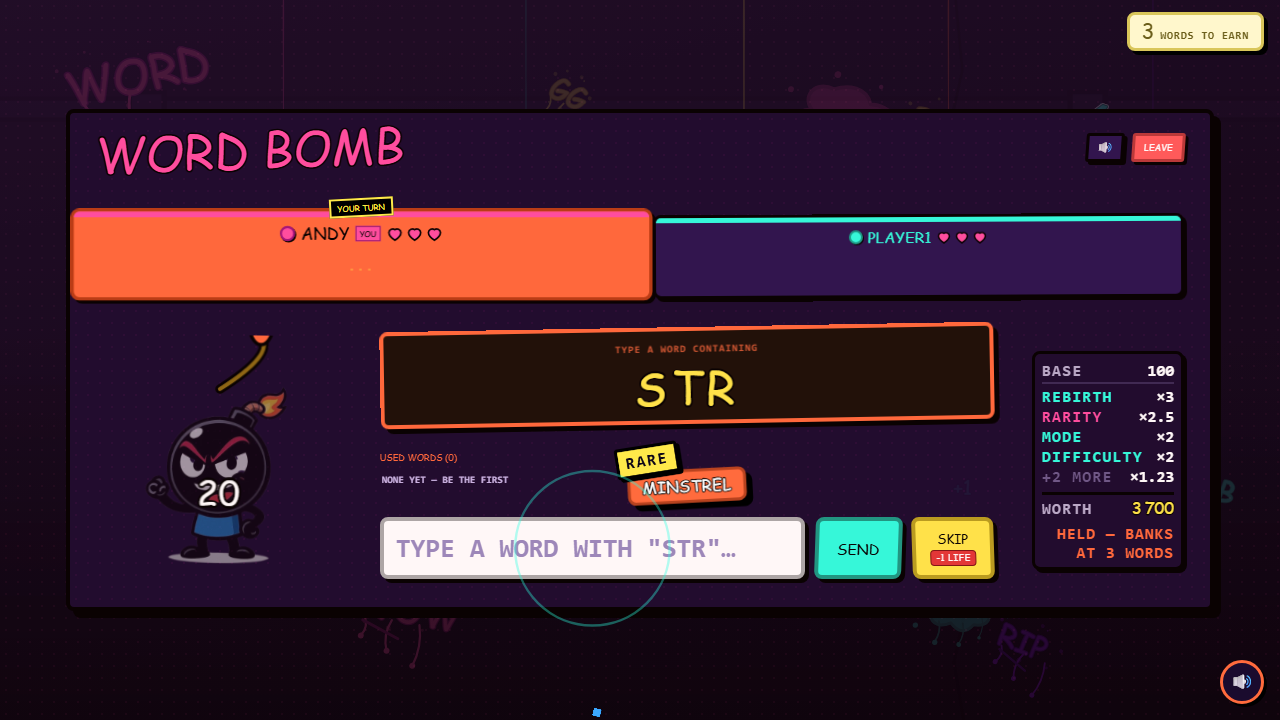
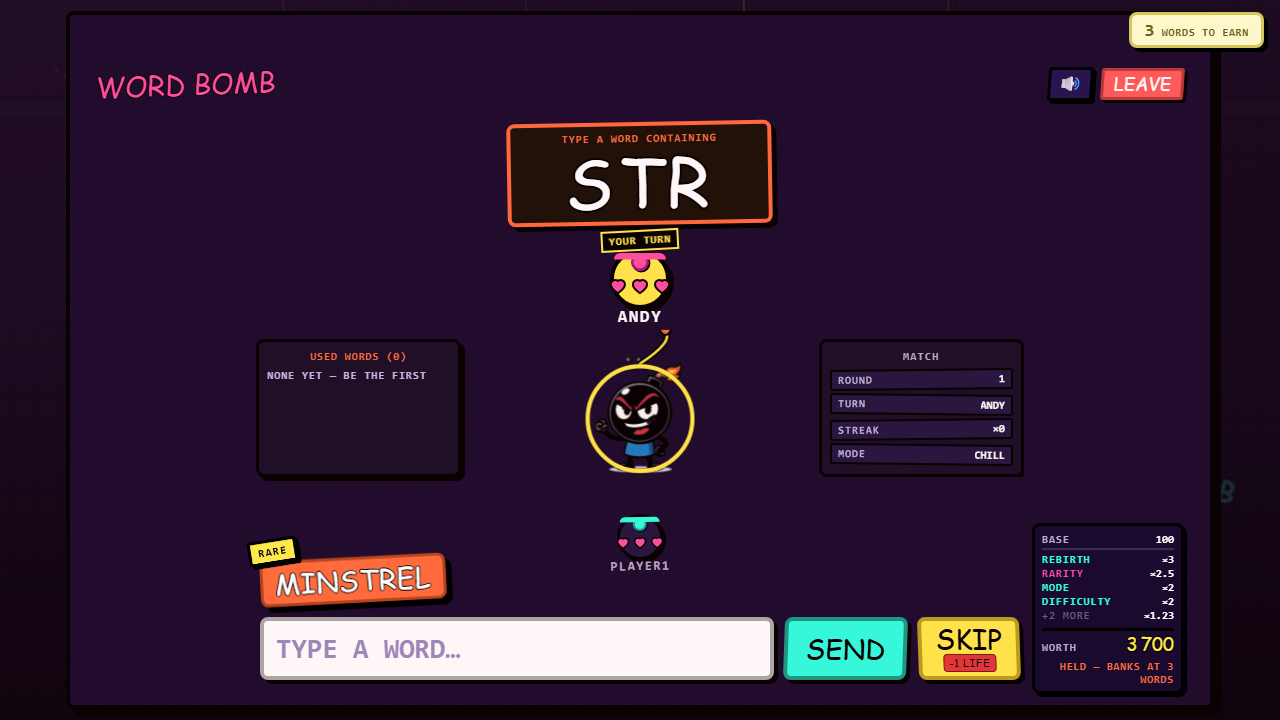
fix(wb): an accepted word shrank the ring from 322px to 58px
THE MERGE DEFECT, found by running chain A's gate against the ring board. Chain A built the
payout receipt as a THIRD GRID COLUMN of chain A's board. The ring board replaced that grid
wholesale (head / top / feed-ring-used / bot), so `.wb-receipt-rail` matched no area, fell
into the implicit grid as a FULL-WIDTH ROW, and the first accepted word added 158px of board
height out of nowhere. wbRingSize then did exactly what it exists to do and took the height
back off the ring: measured at 1280x720, 322px before the word and 58px after it. Every board
gate passed, because the board gate never accepts a word; the frame gate saw it only as a
27px overlap, which was the symptom.

- The receipt docks absolute against the STAGE's bottom-right corner on the ring board. Not
  the viewport — this is not the orphan-fixed-UI shape — so it occupies no track and can
  never take a pixel from the ring again. It sits in the gutter right of the input row, which
  is capped at 760px and centred.
- Its "hidden on a phone" rule was (0,1,0) and the new dock rule is (0,2,0), so the dock won
  the cascade and a 152x171 receipt landed on the input row at 390x844. Both selectors now.
  Specificity, not source order — the same trap that put the WINS pill on top of LEAVE.
- The reaction slot hugs the LEFT of the field on the rails board. Centred, it sits under the
  ring's 6 o'clock seat and shared 4px with an avatar at 1280x720.
[…]

diff --git a/e2e/word-landing.spec.js b/e2e/word-landing.spec.js
@@ -25,7 +25,7 @@ const mkPlayers = (n) =>
     isHost: i === 0,
   }));
 
-async function enterGame(page) {
+async function enterGame(page, playerCount = 2) {
   const mock = await installBackendMock(page);
   await page.addInitScript(() => {
     try {
@@ -36,7 +36,7 @@ async function enterGame(page) {
   });
   await page.goto('/?portal=1');
   await page.getByRole('img', { name: 'Type a Word' }).waitFor({ state: 'visible' });
-  const players = mkPlayers(2);
+  const players = mkPlayers(playerCount);
   mock.pushToClient({
     type: 'room_update',
     payload: { code: 'ABCD', gameType: 'word-bomb', hostId: ME, difficultyKey: 'hard', players },
@@ -208,9 +208,34 @@ for (const vp of FRAME_VIEWPORTS) {
     // exposed this is not otherwise reproducible.
     await page.addInitScript(() => { Math.random = () => 0.99; });
     const mock = await enterGame(page);
+    // THE BOARD BEFORE THE WORD. A transient must not RESIZE the board — the check below is the
+    // one that would have caught integration/board-v2's real defect instead of its symptom:
+    // chain A's payout receipt matched no grid area on the ring board, fell into the implicit grid
+    // as a full-width row, and the first accepted word added 158px of board height. wbRingSize
+    // gave the height back the only way it can, and the ring went from 322px to 58px at 1280x720.
+    // Everything downstream of that read as a 27px overlap. The board gate never sees it because
+    // the board gate never accepts a word.
+    const ringBefore = await page.evaluate(() => {
+      const el = document.querySelector('.wb-ring');
+      return el ? Math.round(el.getBoundingClientRect().width) : 0;
+    });
     await accept(page, mock, 'minstrel');
     await page.waitForTimeout(120);
     await page.screenshot({ path: `claude/wb-frame-shots/${vp.name}.png` });
+    const ringAfter = await page.evaluate(() => {
+      const el = document.querySelector('.wb-ring');
+      return el ? Math.round(el.getBoundingClientRect().width) : 0;
+    });
+    expect(ringBefore, 'the ring must exist before the word').toBeGreaterThan(100);
+    // 2% or 4px, whichever is larger. Not zero, and the reason is worth stating: on the STACKED
+    // phone board the used-words strip gains a real chip when the word is accepted, which is
+    // content changing, not a transient taking space — measured, that is a 3px adjustment on a
+    // 247px ring (1.2%). The failure this guards against was -82%.
+    const ringTol = Math.max(4, ringBefore * 0.02);
+    expect(
+      Math.abs(ringAfter - ringBefore),
+      `an accepted word resized the ring: ${ringBefore}px -> ${ringAfter}px (tol ${ringTol.toFixed(1)}px)`
+    ).toBeLessThanOrEqual(ringTol);
 
     const m = await frameCheck(page);
     // eslint-disable-next-line no-console
@@ -241,6 +266,44 @@ for (const vp of FRAME_VIEWPORTS) {
     // (5) NO DUPLICATE OF THE LANDED WORD. The accept toast said the same word again, bottom-left,
     // at the same moment the landing was showing it at the field with its band and its payout.
     expect(m.acceptToasts, 'the accept toast duplicates the word landing').toBe(0);
+  });
+}
+
+// THE STACKED BOARD AT A FULL TABLE. Every frame test above enters at TWO players, and two
+// players is the one seat count where the phone board has room to spare: the ring is small and the
+// band above the used-words strip is empty. At eight the ring fills that band, and the reaction —
+// which lifts itself over the strip when it can — has to decide between covering the strip and
+// covering a SEAT. It must never pick the seat. (Measured before the fix: 16px of chip over a
+// player card at 320x640, at four AND eight players.)
+for (const vp of [{ name: '390x844', w: 390, h: 844 }, { name: '320x640', w: 320, h: 640 }]) {
+  test(`stacked board @ ${vp.name} / 8p: the landing never covers a seat`, async ({ page }) => {
+    await page.setViewportSize({ width: vp.w, height: vp.h });
+    await page.addInitScript(() => { Math.random = () => 0.99; });
+    const mock = await enterGame(page, 8);
+    await accept(page, mock, 'zymurgy');
+    await page.waitForTimeout(150);
+    await page.screenshot({ path: `claude/wb-frame-shots/stacked-${vp.name}-8p.png` });
+    const hits = await page.evaluate(() => {
+      const R = (e) => e.getBoundingClientRect();
+      const px = (a, b) => {
+        const ox = Math.min(a.right, b.right) - Math.max(a.left, b.left);
+        const oy = Math.min(a.bottom, b.bottom) - Math.max(a.top, b.top);
+        return ox > 1 && oy > 1 ? Math.round(Math.min(ox, oy)) : 0;
+      };
+      const out = [];
+      for (const t of document.querySelectorAll('.wl, .wl-stamp, .wl-wins, .hype-popup')) {
+        for (const sel of ['.game-player-card', '.game-player-name-text', '.game-input-row', '.game-combo-box']) {
+          for (const p of document.querySelectorAll(sel)) {
+            const n = px(R(t), R(p));
+            if (n) out.push(`${t.className.split(' ')[0]} over ${sel} ${n}px`);
+          }
+        }
+      }
+      return [...new Set(out)];
+    });
+    // eslint-disable-next-line no-console
+    console.log(`STACKED | ${vp.name} | 8p | ${hits.length ? hits.join(' ; ') : 'clear'}`);
+    expect(hits, 'the landing covers a seat or a control on the stacked board').toEqual([]);
   });
 }
 

diff --git a/src/components/GameScreen.css b/src/components/GameScreen.css
@@ -118,6 +118,9 @@
    (never from vw/vh), which is only possible because the stage's height is PINNED here
    rather than grown by its contents. */
 .game-stage--wb {
+  /* Positioning context for the docked payout receipt (see .wb-receipt-rail far below), which is
+     absolute against THIS box so it can never take height from the ring. */
+  position: relative;
   /* The pinned box. `100dvh` (not vh) so a phone's collapsing URL bar moves it. */
   height: calc(100dvh - 2 * var(--wrap-pad-y));
   max-height: calc(100dvh - 2 * var(--wrap-pad-y));
@@ -398,6 +401,39 @@
   width: max-content;
   max-width: 100%;
   pointer-events: none;
+}
+
+/* ON THE RING BOARD THE REACTION HUGS THE LEFT OF THE FIELD, not its centre.
+   Centred, it sits directly under the ring's 6 o'clock seat: the slot is ~76px tall when it holds
+   a landing and the bottom seat reaches into that band, so the chip and an avatar shared 4px of
+   box at 1280x720 and 1px at 1366x768. Left-aligned it starts at the field's own left edge and the
+   centred seat is nowhere near it — and the reaction still happens where the word was typed, which
+   is the only thing this slot owes anybody. The width cap keeps a long HYPE phrase out of the
+   centre column too (it ellipsises, as it already does at every width). */
+@media (min-width: 900px) {
+  .game-stage--wb .wb-react {
+    left: 0;
+    right: auto;
+    transform: none;
+    justify-content: flex-start;
+    max-width: calc(50% - 96px);
+  }
+}
+
+/* THE STACKED BOARD LIFTS THE REACTION OVER THE USED-WORDS STRIP.
+   There is no gutter beside the field on a phone, so the left-hug above does not apply — and
+   directly above the field is the used-words strip, so the chip landed on "USED WORDS (0) / NONE
+   YET — BE THE FIRST" with the RARE stamp across the count. On the wide board that overlap was
+   judged acceptable (a solid chip, 1.5s, over the least urgent thing on the board — see the note
+   in e2e/word-landing.spec.js); on the phone it reads as clutter, because the strip's text shows
+   around the chip instead of behind it.
+   `--wb-usedh` is the measured height of that strip, written by the same ResizeObserver pass that
+   sizes the ring — an exact offset rather than a guessed one, and writing it cannot change the
+   strip's height, so there is no feedback loop. */
+@media (max-width: 899px) {
+  .game-stage--wb .wb-react {
+    bottom: calc(100% + var(--wb-usedh, 0px) + 10px);
+  }
 }
 
 .hype-popup {
@@ -4932,6 +4968,28 @@ html[data-beat='true'] .cb-answer-chip {
   min-height: 1px;
   pointer-events: none;
 }
+/* ON THE RING BOARD IT IS DOCKED TO THE BOARD'S BOTTOM-RIGHT CORNER, and this is the single most
+   important line in this block.
+   WHAT THE MERGE DID: chain A built this slot as a THIRD GRID COLUMN of chain A's board. The ring
+   board replaced that grid wholesale (head / top / feed-ring-used / bot), so `.wb-receipt-rail`
+   matched no area, fell into the implicit grid as a FULL-WIDTH ROW, and the first accepted word
+   added 158px of board height out of nowhere. `wbRingSize` then did exactly what it is supposed to
+   and gave the height back by shrinking the ring — measured at 1280x720: **322px before the word,
+   58px after it**. A 58px ring. Every board gate passed, because the board gate never accepts a
+   word; the word-landing gate caught it as a 27px overlap, which was the symptom, not the disease.
+   Absolute against the STAGE (which is a real element of the board, not the viewport — this is not
+   the orphan-fixed-UI shape), so it occupies no track and can never take a pixel of height from
+   the ring again. It sits in the gutter to the RIGHT of the input row, which is width-capped at
+   760px and centred, so on a board wide enough to have that gutter the two cannot meet. */
+.game-stage--wb .wb-receipt-rail {
+  position: absolute;
+  right: clamp(14px, 2vw, 28px);
+  bottom: clamp(10px, 1.6vh, 22px);
+  display: flex;
+  justify-content: flex-end;
+  width: 152px;
+  z-index: 5;
+}
 .wb-receipt {
   pointer-events: none;
   will-change: transform, opacity;
@@ -4959,7 +5017,11 @@ html[data-beat='true'] .cb-answer-chip {
    screen as the round breakdown, which is where it is actually readable — and the LANDING, which
    is the part that has to be at the word, still shows the band and the payout at the field. */
 @media (max-width: 899px) {
-  .wb-receipt-rail {
+  /* `.game-stage--wb` prefix, matching the dock rule above: that rule is (0,2,0) and this one was
+     (0,1,0), so on a phone the dock won the cascade and a 152x171 receipt landed on the input row.
+     Specificity, not order — the same trap that put the WINS pill on top of LEAVE. */
+  .wb-receipt-rail,
+  .game-stage--wb .wb-receipt-rail {
     display: none;
   }
 }

diff --git a/src/components/GameScreen.jsx b/src/components/GameScreen.jsx
@@ -1582,6 +1582,10 @@ function useHypeFeedback(lastWordResult, inputRef, promptRef, opts = {}) {
 // so far, ticking up as answers are accepted (fixed, pointer-events:none so it never blocks
 // play; hidden until the payout gate of 3 words is crossed). The earned block shows the run's
 // total on the game-over card, large. Both are purely presentational.
+// The height the word-landing reaction needs above the field on a stacked board, including the
+// stamp that perches above the chip. Used to decide whether it can clear the used-words strip.
+const REACT_H = 54;
+
 export default function GameScreen({
   // The app's sound control, handed down as an element so this screen can host it in its header
   // cluster without knowing anything about music or the SFX engine. See App.jsx.
@@ -1798,6 +1802,25 @@ export default function GameScreen({
         const rails =
           getComputedStyle(stage).getPropertyValue('--wb-layout').trim() === 'rails';
         setTinyBoard(!rails && stage.clientWidth < 300);
+        // The stacked board's used-words strip sits between the field and the ring, and the
+        // reaction slot has to clear it (see .wb-react in GameScreen.css). Its height is written
+        // as a custom property from this same pass; the slot is absolutely positioned, so writing
+        // it can never change what it measures.
+        const usedEl = stage.querySelector('.game-used');
+        const ringEl = stage.querySelector('.wb-ring');
+        let lift = 0;
+        if (!rails && usedEl && ringEl) {
+          const u = usedEl.getBoundingClientRect();
+          // ...but ONLY IF THE BAND ABOVE THE STRIP IS ACTUALLY EMPTY. Lifting is a choice between
+          // two overlaps, not a free win: above the strip is the ring, and on a 320x640 board the
+          // gap between the bottom seat and the strip is smaller than the chip — measured, the
+          // lifted chip covered a PLAYER CARD by 16px. Covering a seat is worse than covering the
+          // used-words list (which is the least urgent thing on the board and the list this very
+          // word is about to join), so when the gap does not fit, the reaction stays put.
+          const gap = u.top - ringEl.getBoundingClientRect().bottom;
+          if (gap >= REACT_H) lift = Math.round(u.height);
+        }
+        stage.style.setProperty('--wb-usedh', `${lift}px`);
         setRailMetrics(
           rails
             ? {
